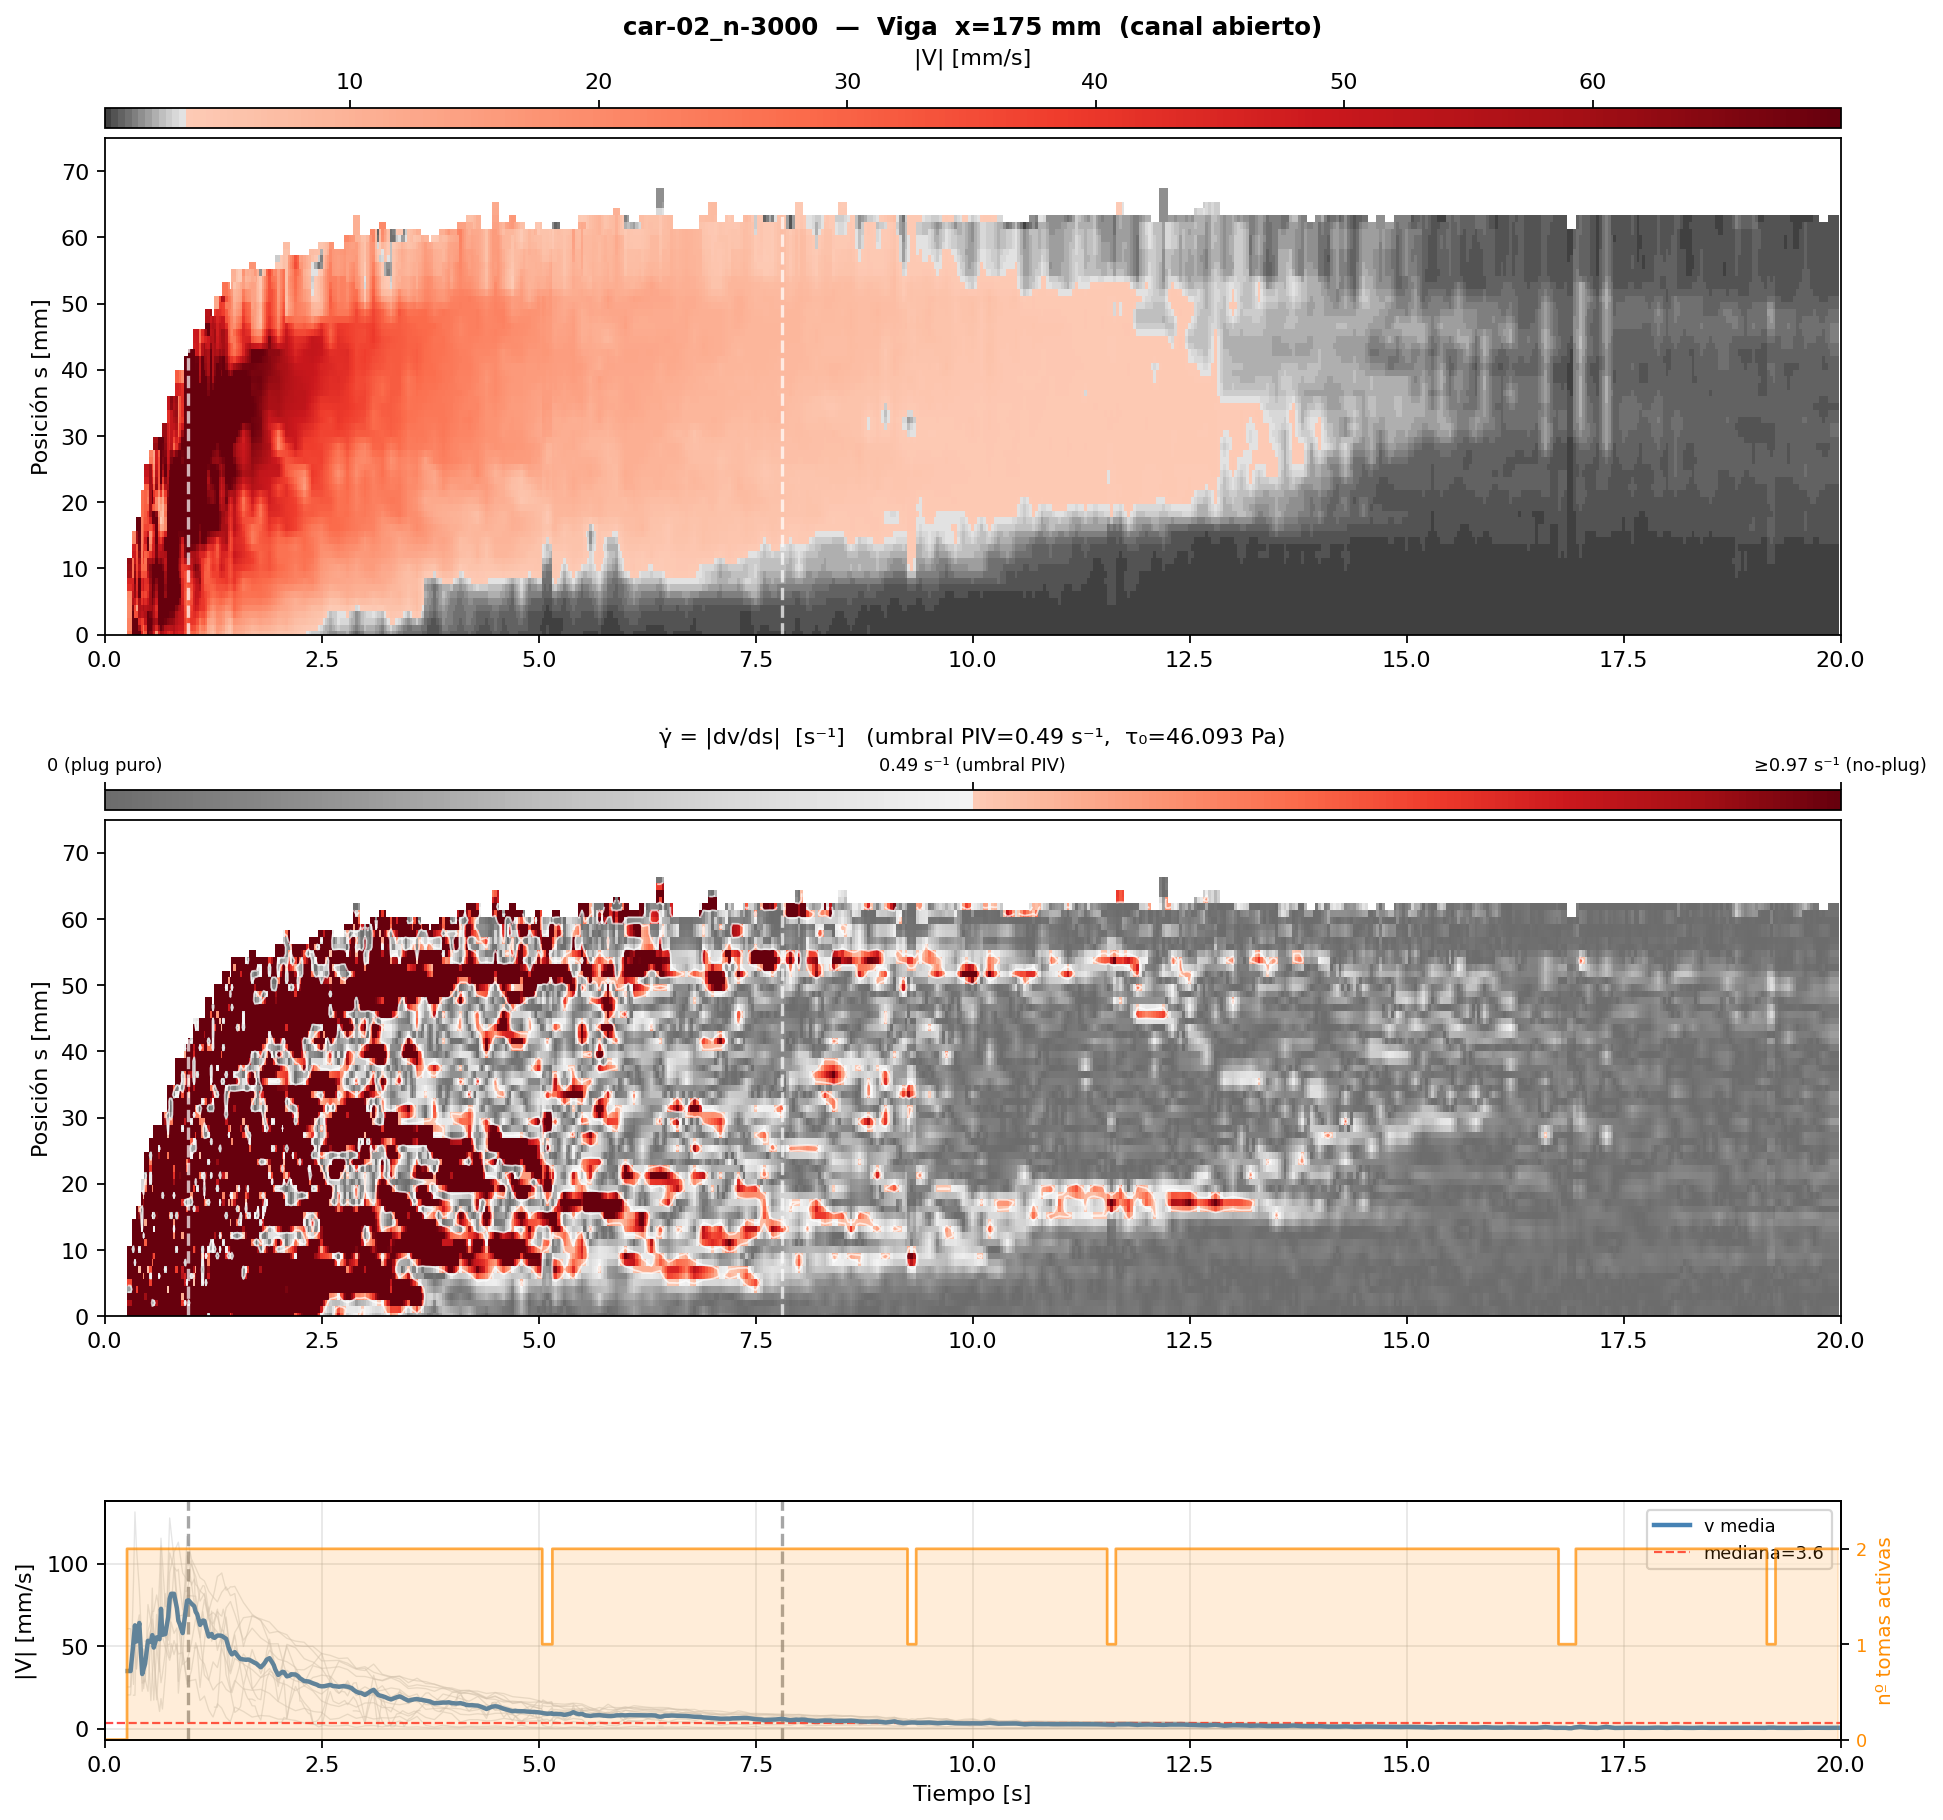
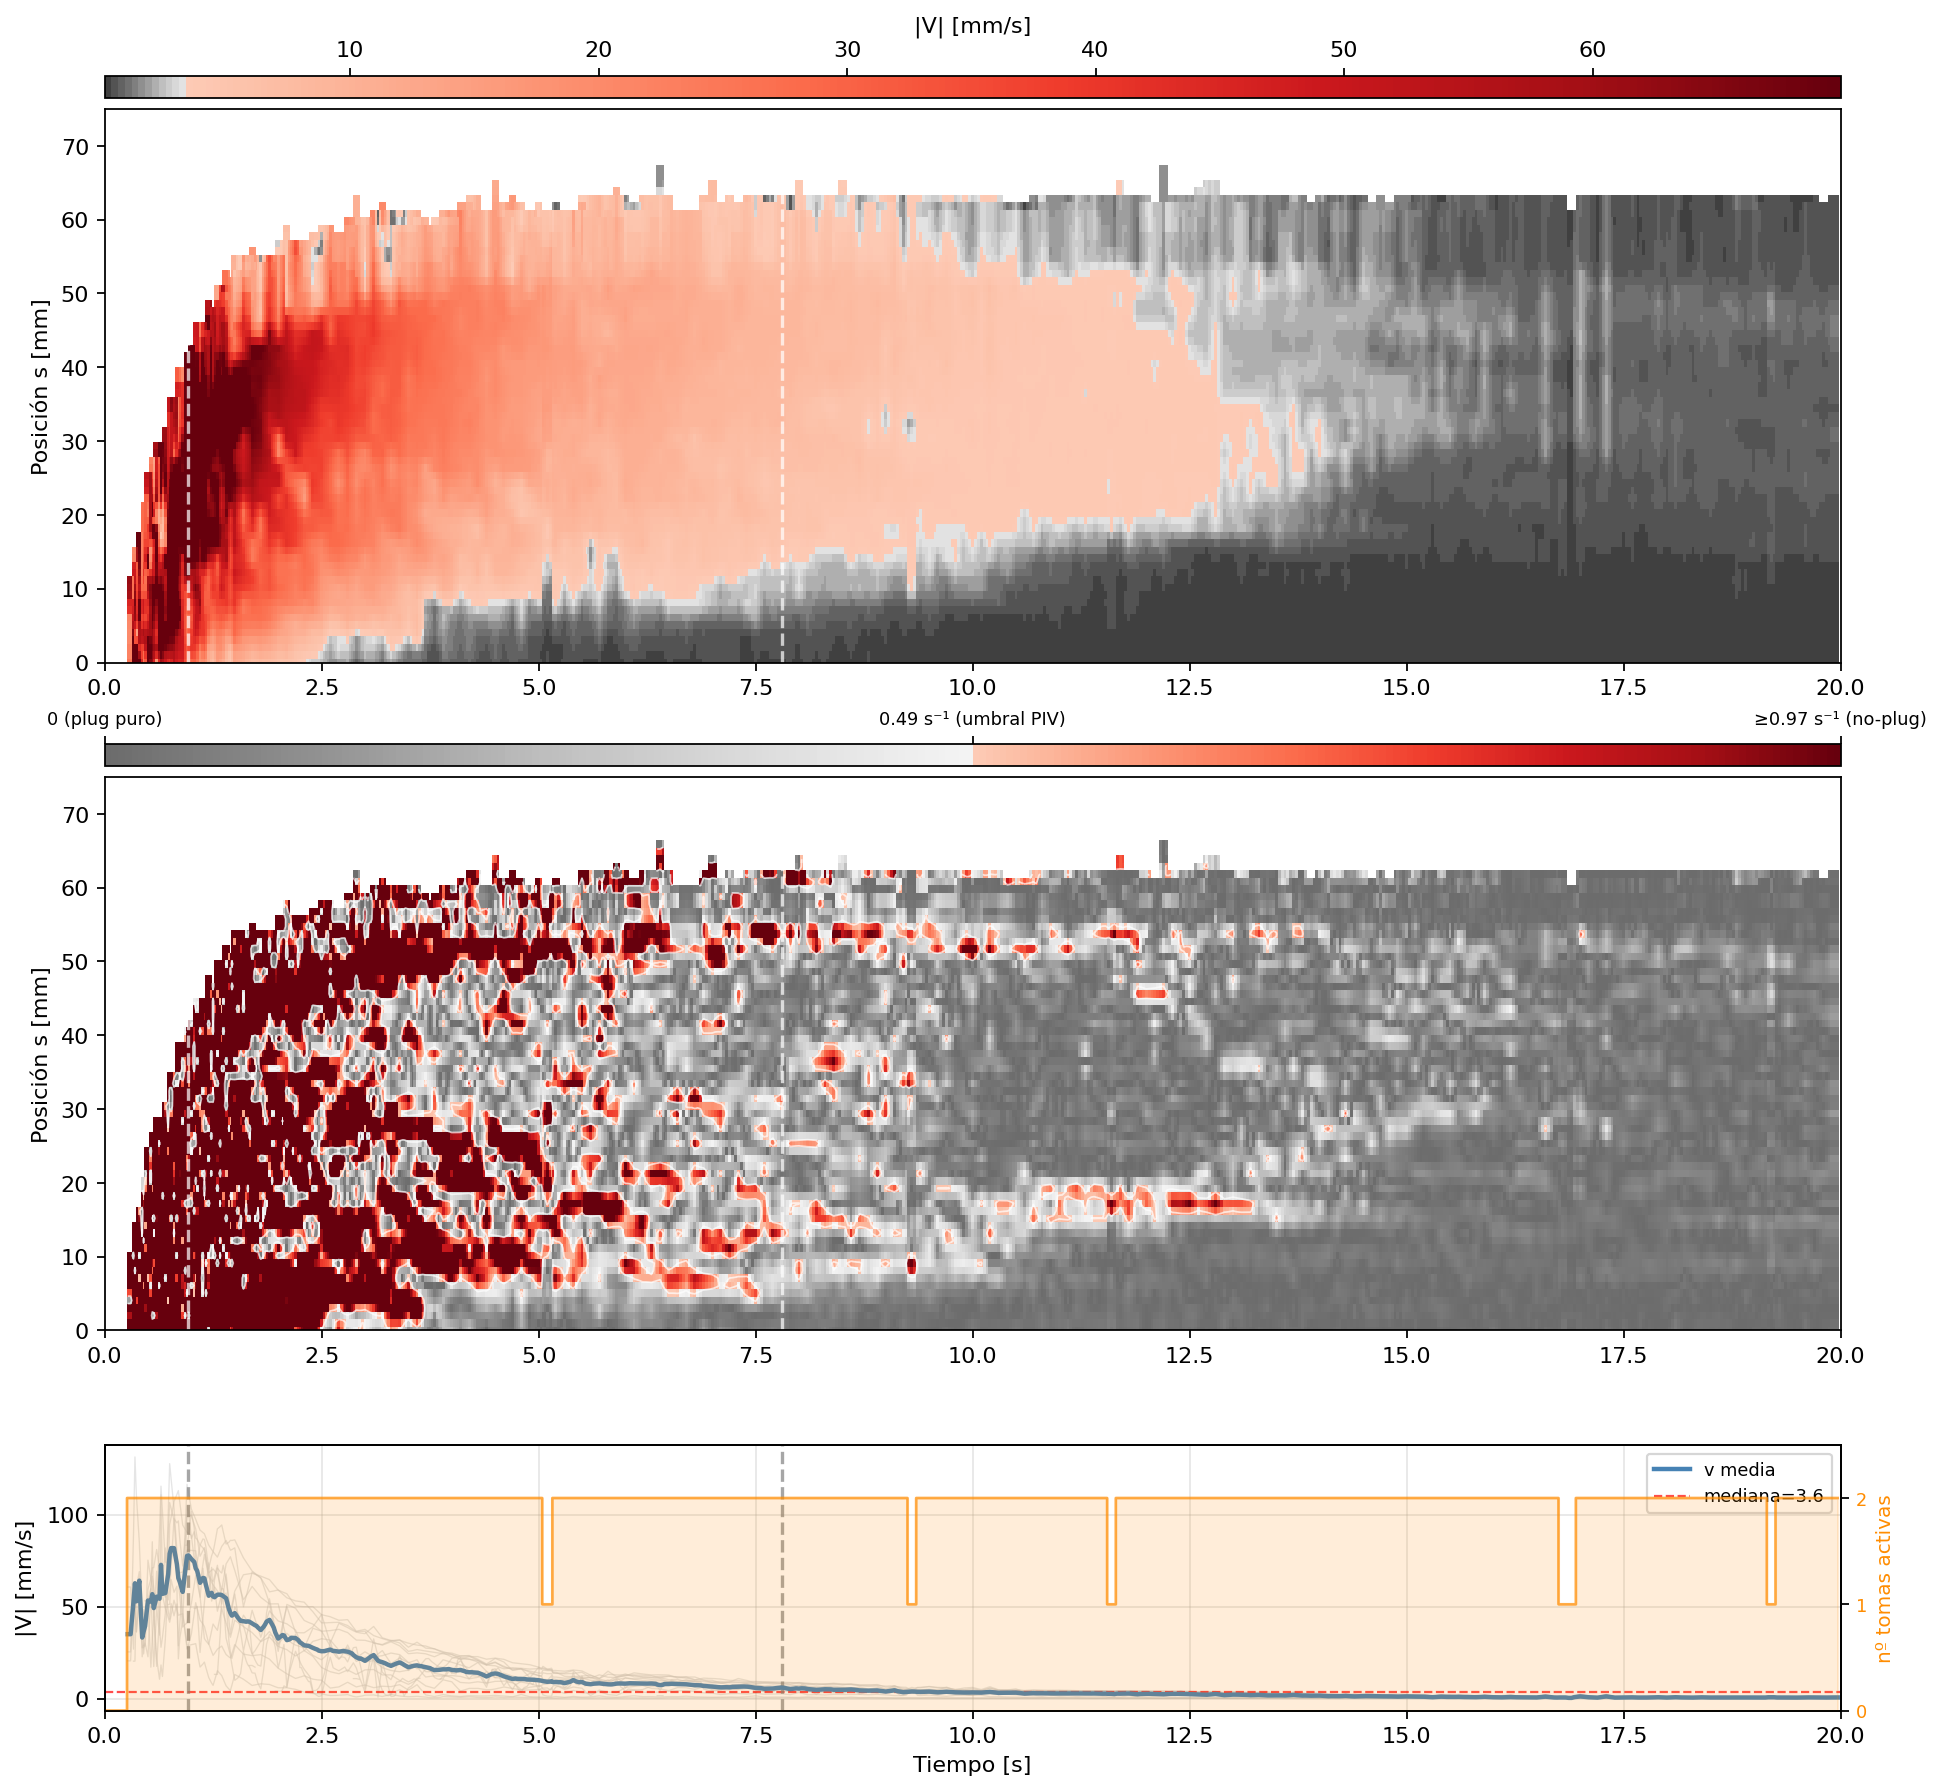
cambios

diff --git a/esp_plug_mag.py b/esp_plug_mag.py
@@ -256,7 +256,7 @@ def graficar(matriz_vel, mat_plug, mat_ratio, tiempos_full, tiempos_list,
       [bottom] v_media(t) con perfiles individuales
     """
     fig = plt.figure(figsize=(14, 13))
-    gs  = GridSpec(3, 1, figure=fig, height_ratios=[2.5, 2.5, 1.2], hspace=0.45)
+    gs  = GridSpec(3, 1, figure=fig, height_ratios=[2.5, 2.5, 1.2], hspace=0.25)
     ax_vel  = fig.add_subplot(gs[0])
     ax_plug = fig.add_subplot(gs[1], sharex=ax_vel)
     ax_v    = fig.add_subplot(gs[2], sharex=ax_vel)
@@ -281,7 +281,7 @@ def graficar(matriz_vel, mat_plug, mat_ratio, tiempos_full, tiempos_list,
     cax1.xaxis.set_label_position('top')
     ax_vel.set_ylabel('Posición s [mm]', fontsize=10)
     ax_vel.set_ylim(ss[0], ss[-1])
-    ax_vel.set_title(f'{nombre_grupo}  —  {zona_label}', fontsize=11, fontweight='bold')
+    # ax_vel.set_title(f'{nombre_grupo}  —  {zona_label}', fontsize=11, fontweight='bold')
     _agregar_divisores(ax_vel, tiempos_list, 'white')
 
     # ── Panel 2: plug / no-plug ───────────────────────────────
@@ -305,9 +305,9 @@ def graficar(matriz_vel, mat_plug, mat_ratio, tiempos_full, tiempos_list,
     cax2.xaxis.set_label_position('top')
     ax_plug.set_ylabel('Posición s [mm]', fontsize=10)
     ax_plug.set_ylim(ss[0], ss[-1])
-    ax_plug.set_title(
-        f'γ̇ = |dv/ds|  [s⁻¹]   (umbral PIV={umbral_gamma:.2f} s⁻¹,  τ₀={reo_ref["tau0"]} Pa)',
-        fontsize=10)
+    # ax_plug.set_title(
+    #     f'γ̇ = |dv/ds|  [s⁻¹]   (umbral PIV={umbral_gamma:.2f} s⁻¹,  τ₀={reo_ref["tau0"]} Pa)',
+    #     fontsize=10)
     ax_plug.contour(tiempos_full, ss, ratio_plot.T,
                     levels=[umbral_gamma], colors='white', linewidths=0.8, alpha=0.7)
     _agregar_divisores(ax_plug, tiempos_list, 'white')

diff --git a/generar_mapas.py b/generar_mapas.py
@@ -446,8 +446,8 @@ def fig_pequenos_multiplos_viga(tabla, metrica="calidad_orientacion",
     sm.set_array([])
     fig.colorbar(sm, ax=axes, orientation="vertical", fraction=0.025,
                 pad=0.02, label=etiqueta)
-    fig.suptitle(f"{etiqueta} por zona de viga — cada Carbopol × concentración",
-                fontsize=13, fontweight="bold")
+    # fig.suptitle(f"{etiqueta} por zona de viga — cada Carbopol × concentración",
+    #             fontsize=13, fontweight="bold")
     fig.savefig(path, dpi=150, bbox_inches="tight")
     plt.close(fig)
     print("  guardado:", path)
